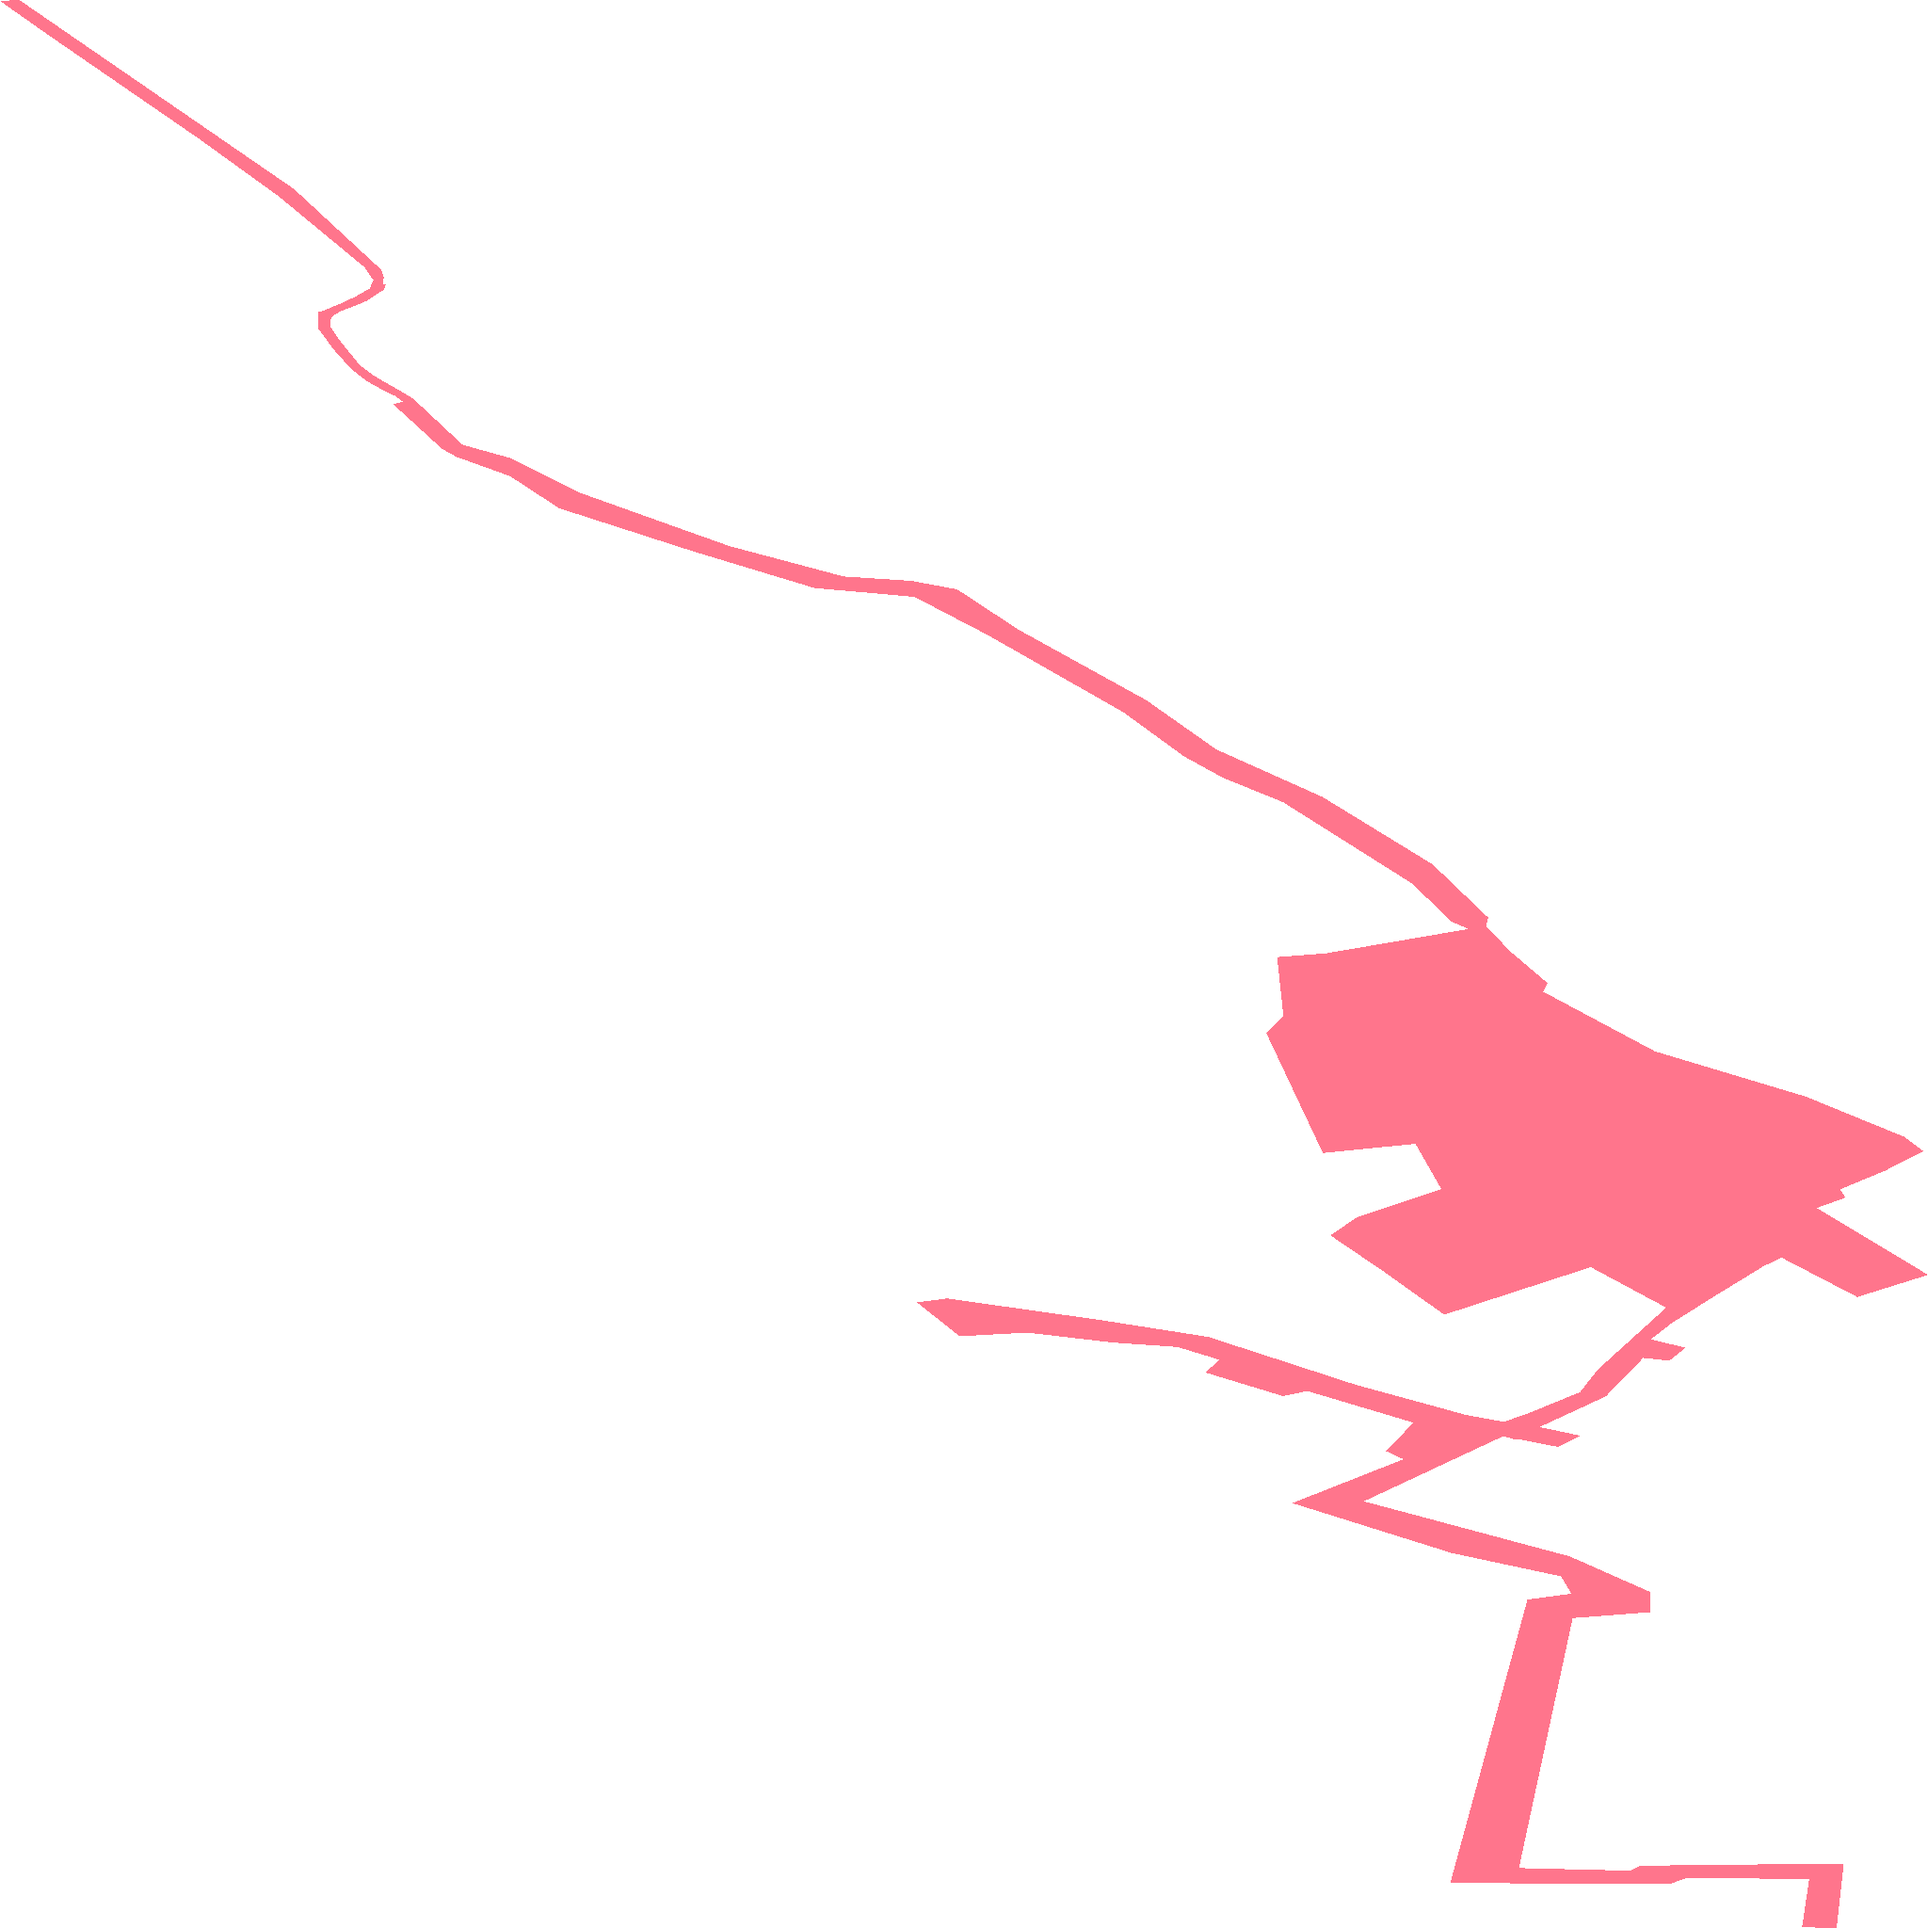
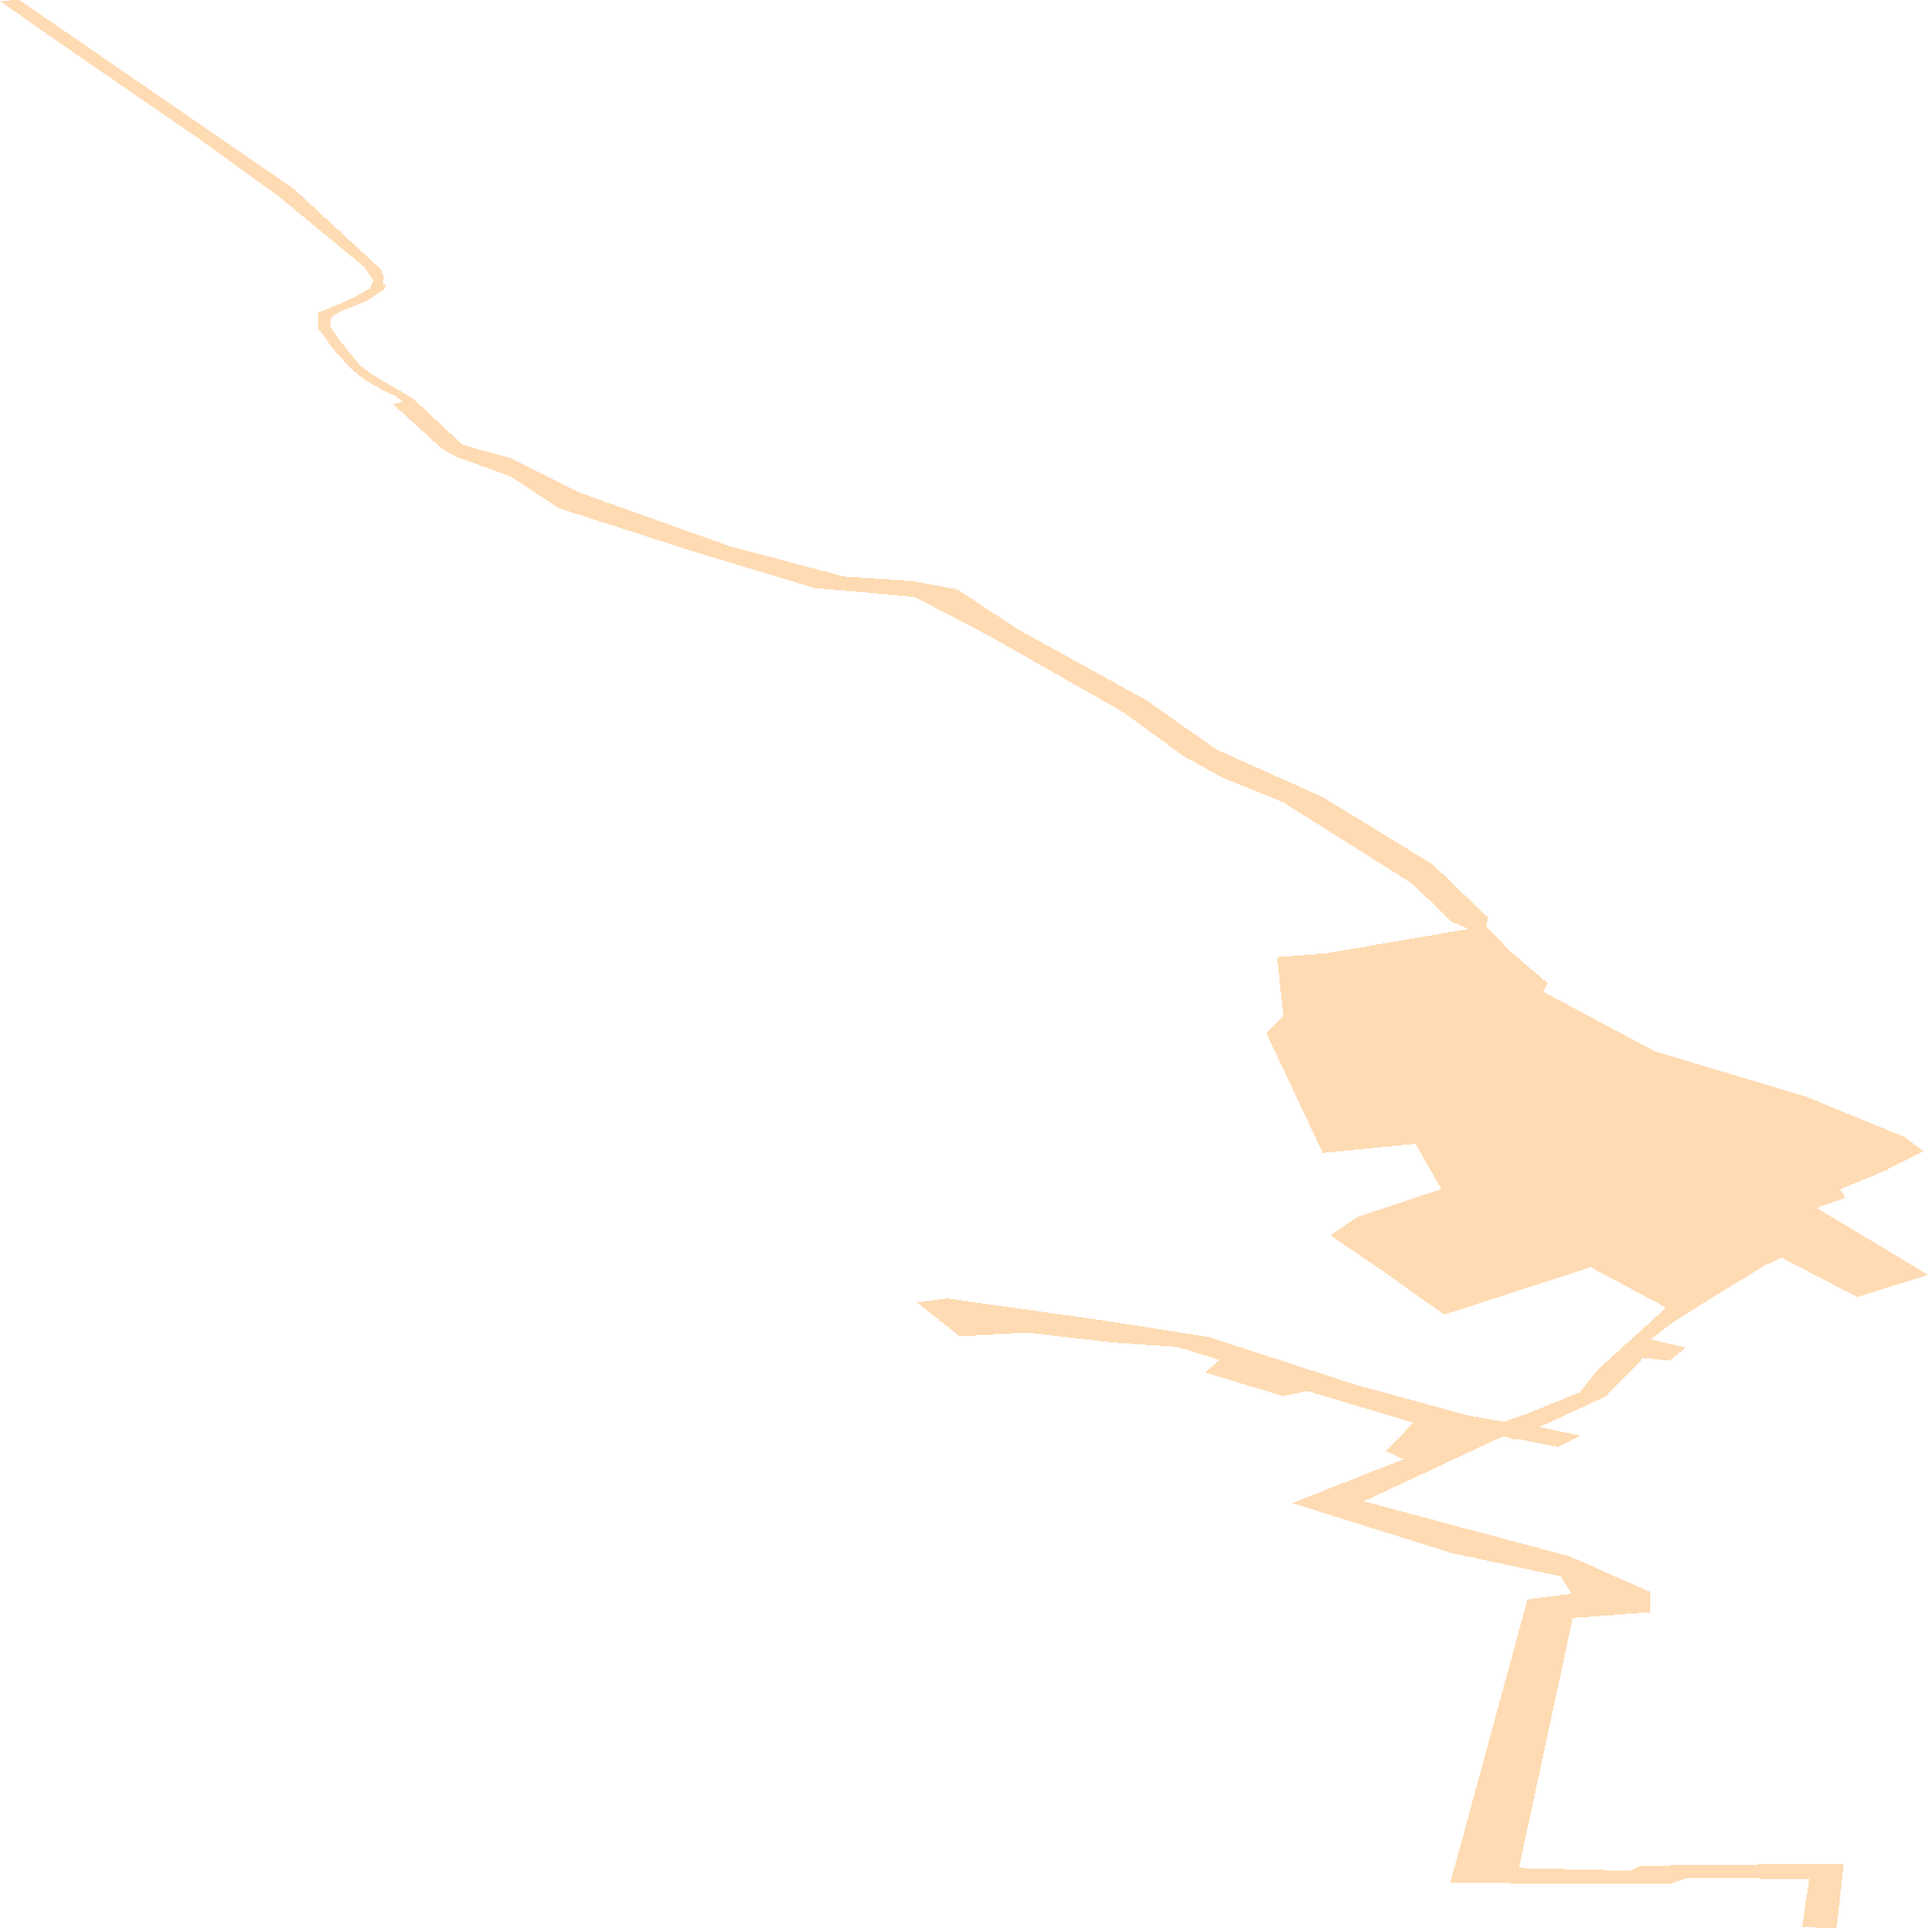
Karte sp_628

diff --git a/sp_628.html b/sp_628.html
@@ -60,7 +60,7 @@
         }
         .custom-control2 {
             position: absolute;
-            bottom: -320px;
+            top: 110px;
             left: 0px;
             background: white;
             padding: 5px;
@@ -77,24 +77,6 @@
         .custom-control:hover, .custom-control2:hover {
             background-color: #f0f0f0 !important;
         }
-        .leaflet-control-geocoder-icon {
-            background-color: white !important;
-            color: grey !important;
-            border: none !important;
-            width: 20px;
-            height: 20px;
-            display: flex;
-            justify-content: center;
-            align-items: center;
-            font-size: 15px;
-            font-family: 'Montserrat', sans-serif;
-            box-shadow: 0 1px 3px rgba(0, 0, 0, 0.3);
-            border-radius: 2px;
-            cursor: pointer;
-        }
-        .leaflet-control-geocoder-icon:hover {
-            background-color: #f0f0f0 !important;
-        }
         .custom-marker {
             width: 15px;
             height: 15px;
@@ -104,8 +86,8 @@
         }
         #legend {
             position: absolute;
-            bottom: 80px;
-            left: 55px;
+            top: 160px;
+            left: 10px;
             display: none;
             z-index: 1000;
             background: white;
@@ -128,8 +110,9 @@
 <body>
     <div id="map"></div>
     <div id="legend">
-        <div><span style="display:inline-block; width:20px; height:10px; background:#FF7F00; margin-right:5px;"></span>Ausbauphase 1: Ausbau bei ausreichender Nachfrage</div>
+        <div><span style="display:inline-block; width:20px; height:10px; background:#FF7F00; margin-right:5px;"></span>Ausbauphase 1: Glasfasernetz vorhanden oder geplant</div>
         <div><span style="display:inline-block;width:20px; height:10px; background:#00143C; margin-right:5px;"></span>Ausbauphase 2: Interessenbekundung möglich</div>
+        <div><span style="display:inline-block;width:20px; height:10px; background:#FFC17D; margin-right:5px;"></span>Ausbauphase 3: Gefördertes Ausbaugebiet </div>
     </div>
     <script>
     const bounds = [[50.40303973, 7.991667086], [50.44999037, 8.02449684]];
@@ -166,20 +149,6 @@
         });
         map.addControl(new legendControl());
         const markerLayerGroup = L.layerGroup().addTo(map);
-        const geocoder = L.Control.geocoder({
-            defaultMarkGeocode: false
-        })
-            .on('markgeocode', function (e) {
-                markerLayerGroup.clearLayers();
-                const latlng = e.geocode.center;
-                const customMarker = L.divIcon({
-                    className: 'custom-marker'
-                });
-                const marker = L.marker(latlng, { icon: customMarker });
-                markerLayerGroup.addLayer(marker);
-                map.fitBounds(bounds);
-            })
-            .addTo(map);
     </script>
 </body>
 </html>
